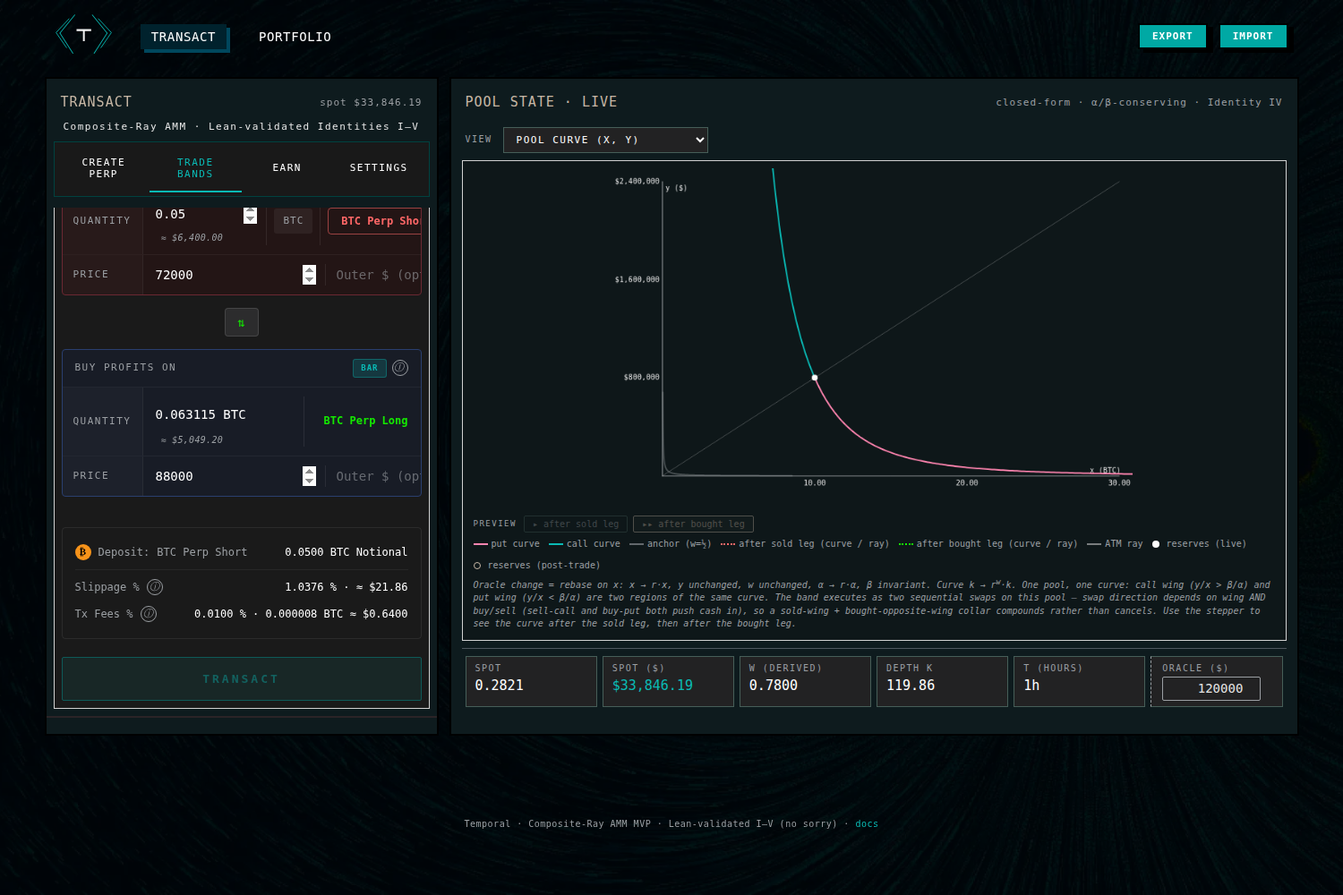
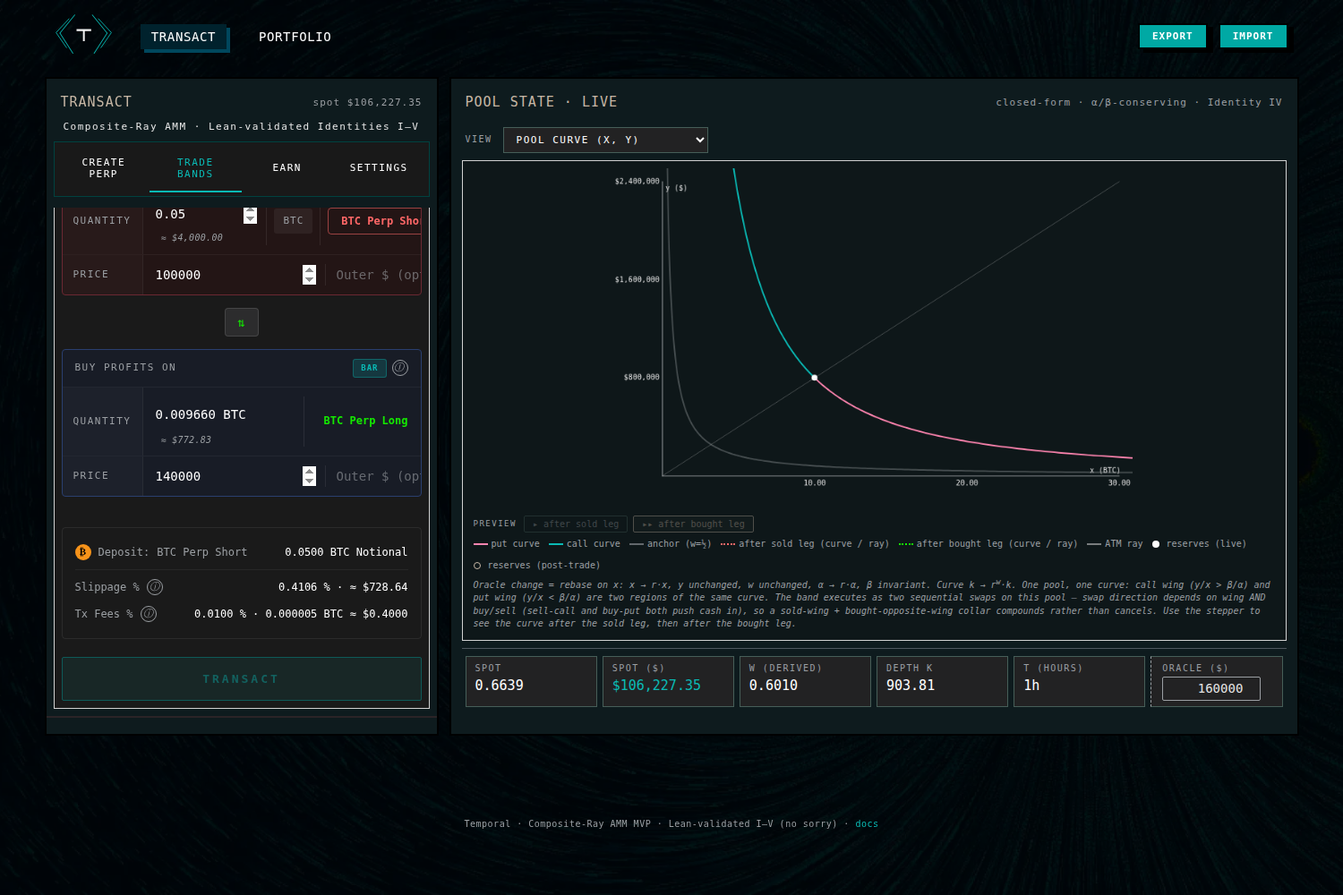
tester smoke-pass v28 lens S2: PASS 12/12, FLAG-1 tau-redraw RESOLVED live, settle-at-lensed round-trip/portfolio/ATM/steep-ITM all PASS, 0 console errors. FINDING-RT OPEN (2-OTM-leg round-trip trader-favourable, scales w/ size, byte-identical to v24 base = inherited, contradicts skeptic #30 sign — 

diff --git a/engine/builds/DIFF_LEDGER.md b/engine/builds/DIFF_LEDGER.md
@@ -22,19 +22,19 @@ changed, every entry, no exceptions)
 |---|---|---|---|---|
 | 1 | Balancer base | **HEAD (v27) IS the (W) family on the literal Balancer base** F=x^w·y^(1−w) with position-dependent w(u;φ); τ→∞ recovers plain Balancer. **UX-restore `9d22cffd`: v24 dollar defaults BACK** — oracle 80000, x=10 BTC, marginal=$80,000.000 at load (y0=303,448.28 chosen so load is equilibrium — differs from v24's 800,000; flagged below). Same tabs/KPI labels/chart views/perp+band defaults as v24 (tester side-by-side). **Display-fix `1eebfcd6`: Spot($)/Spot KPI + hdr-pool-spot re-pointed to the marginal getMP_raw — $80,000.00 / 1.0000 / "spot $80,000.00" at load (v24 values)** | entry-46 smoke (`928cde1c`, FINDING-R) | DESIRABLE — v24 feel restored; Spot-KPI basis RECONCILED-in-`1eebfcd6` (y0 delta OPEN-for-ruling). **NEW OPEN (entry-46 smoke, FINDING-R): post-rebase Spot($)/hdr-pool-spot show POOL-FRAME getMP_raw, not current-$ poolMark — oracle→90000 makes Spot($) read $71,232 then post-arb $80,000 beside an Oracle box reading 90000; honest at r=1 only. Display-only; engine self-consistent** |
 | 2 | Curve warp w(u) | HEAD: explicit (W) weight-field w(u;φ); warp = field-center φ shift; engine-correct (selfcheck 21 PASS); curve renders across frame. On-screen per-trade warp is SUBTLE (≈0.5–1px; verified elbow-local — sweep shows no τ matches v24's global warp with frozen wings) | entry-46 fix `928cde1c` (anchor overlay) | HEAD — engine PASS; visual subtlety ACCEPTED (override). **ENTRY-46: anchor (w=½) overlay FIXED-verified — k=√(x·y)=1,742 (was 170.83, 104× low); passes 1.15px from the live reserves dot, pixel-confirmed on the entry-45 frame (`I3_anchor_curve_default.png` re-shoot).** **ENTRY-30 obs: warp is premium-driven only (φ=f(dy=±premium)); constant-premium-further-OTM does NOT warp more — operator CHECK-1 claim NOT reproduced, see OPEN -1.** **ENTRY-45 obs: τ visual authority intrinsically small on the default frame — re-anchoring pins the elbow at the live point and wing shift is along-tangent (self-sliding); full-range τ 0.05→3.00 max 153.7px at wing tail yet perceived shape ~unchanged (screenshots); per-click (±0.05) 3.4px max = sub-visible. Redraw FIRES (canvas diff every step). See OPEN -2** |
-| 3 | Kurtosis knob τ | HEAD: **τ is a NUMBER STEPPER (no slider anywhere — 0 `input[type=range]` in live DOM), step 0.05, range 0.05–3**; keyboard ↑/↓ steps + readout + curve update live; elbow visibly rounds at $80k defaults (τ 0.05→1.5: elbow 5.6px mean/111 max, left wing 0.0px) — tester-confirmed. **Display-fix `1eebfcd6`: spinner ARROWS UN-HIDDEN (CSS L331-337) — mouse-click on the τ up-arrow steps 0.30→0.35 and the curve redraws; ALL settings/perp number fields show spinners (tester pixel+click ×2)** | entry-46 fix `928cde1c` (disclosure sentence) | DESIRABLE mechanics — stepper+redraw verified live ×2; **ENTRY-46: honest disclosure sentence added + visible at the τ control ("Visible effect scales with the wing gap (w₊−w₋) and is subtle per 0.05 step…"); per-click delta re-baselined byte-identical (3.39px analytic / 3,744px canvas one click; 153.73px full sweep)** — **BUT ENTRY-45: operator reports (correctly) the CURVE looks "almost completely insensitive" to τ — confirmed intrinsic-small visual authority (one click 3.4px max; 0.30→0.60 19.9px; 0.30→3.00 131px, all at wing tails along-tangent, elbow pinned at live point). NOT a redraw bug. Whether the knob needs more VISUAL authority = OPEN operator-tier (OPEN -2)** **▶ v28-S1 CANDIDATE (NOT HEAD, `5e1ff278`): on the polar-lens build τ visibly reshapes CHART 2 (lens read) — forced-redraw τ0.3→0.05 ≈98px elbow sharpen, wings frozen (Δψ≈5e-5); BUT the τ stepper EVENT does NOT auto-redraw chart 2 (0 px on a 0.3→3 step) because `window.Viz` is undefined and the L2702 guard is dead — FLAG-1, OPEN intern one-liner. Same operator "insensitive to kurtosis" symptom-class, here a pure redraw-wiring bug (math/draw correct).** |
+| 3 | Kurtosis knob τ | HEAD: **τ is a NUMBER STEPPER (no slider anywhere — 0 `input[type=range]` in live DOM), step 0.05, range 0.05–3**; keyboard ↑/↓ steps + readout + curve update live; elbow visibly rounds at $80k defaults (τ 0.05→1.5: elbow 5.6px mean/111 max, left wing 0.0px) — tester-confirmed. **Display-fix `1eebfcd6`: spinner ARROWS UN-HIDDEN (CSS L331-337) — mouse-click on the τ up-arrow steps 0.30→0.35 and the curve redraws; ALL settings/perp number fields show spinners (tester pixel+click ×2)** **▶ v28-S2 (`b53ace99`): FLAG-1 RESOLVED — the τ stepper EVENT now AUTO-REDRAWS chart 2 live (0.3→0.05=5,199px, 0.3→2=6,545px, real ArrowUp=3,894px); handler calls `if (Viz) Viz.drawAll(...)` via the ui closure (dead `window.Viz` guard removed) — tester live ×2.** | entry-46 fix `928cde1c` (disclosure sentence) | DESIRABLE mechanics — stepper+redraw verified live ×2; **ENTRY-46: honest disclosure sentence added + visible at the τ control ("Visible effect scales with the wing gap (w₊−w₋) and is subtle per 0.05 step…"); per-click delta re-baselined byte-identical (3.39px analytic / 3,744px canvas one click; 153.73px full sweep)** — **BUT ENTRY-45: operator reports (correctly) the CURVE looks "almost completely insensitive" to τ — confirmed intrinsic-small visual authority (one click 3.4px max; 0.30→0.60 19.9px; 0.30→3.00 131px, all at wing tails along-tangent, elbow pinned at live point). NOT a redraw bug. Whether the knob needs more VISUAL authority = OPEN operator-tier (OPEN -2)** **▶ v28-S1 CANDIDATE (NOT HEAD, `5e1ff278`): on the polar-lens build τ visibly reshapes CHART 2 (lens read) — forced-redraw τ0.3→0.05 ≈98px elbow sharpen, wings frozen (Δψ≈5e-5); BUT the τ stepper EVENT does NOT auto-redraw chart 2 (0 px on a 0.3→3 step) because `window.Viz` is undefined and the L2702 guard is dead — FLAG-1, OPEN intern one-liner. Same operator "insensitive to kurtosis" symptom-class, here a pure redraw-wiring bug (math/draw correct).** |
 | 4 | Carry P=Ny/Nx, q=ln p | HEAD (v27): carry = price leg q=ln p; reads via getMP_raw; engine-consistent (selfcheck) | v27 | DESIRABLE — stable |
 | 5 | Rebase (P→P/r) | HEAD (v27): rebase = carry-shift q→q−ln r (NOT rigid x→r·x); **warp∘rebase-commute OPEN [needs-Aristotle]**, deliberately not coupled. **ENTRY-46 smoke: rebase path UI-exercised first time — engine consistent (arb closes the poolMark gap exactly) but the $ KPIs display the pool FRAME, see FINDING-R row #1** | v27 (+ entry-46 smoke obs) | OPEN lemma — theory-risk-accepted; FINDING-R display item OPEN |
 | 6 | Pricing law value∝S^(−γ) | HEAD (v27): value∝S^(−γ_loc) under Reading A (operator-ruled, entry 11 "a"); wings exact power-laws | v27 (+ v28-S1 candidate obs) | DESIRABLE — Reading A ruled. **▶ v28-S1 (`5e1ff278`): pricing READ through the polar lens g_loc=γ·h′_τ(|u|) on chart 2; value∝S^(−γ_loc) preserved in the wings (selfcheck 5c g_wing→γ-scale); elbow rounds with τ, wings frozen — tester-confirmed live** |
-| 7 | ITM American smooth-pasting | HEAD (v27): ported with g→γ_loc (Reading A); seam value/slope selfcheck PASS; mark/markFrac split present. NOT carried from the GH line: payoff naked-leg uncap + x-range −90..+200 (HEAD payoff caps at 1, ±50%) — NOTES D9/D10 | v27 (+ Task-2 diff) (+ v28-S1 candidate obs) | HEAD — seam PASS; 2 GH-line payoff upgrades unported (noted for future). **▶ v28-S1 (`5e1ff278`): lens twin `markLensed` (Reading-A smooth-paste with strike-local g) — seam value/slope continuous incl. g<1 (selfcheck 4a/4b), and the g=0/S*=0 ATM point returns finite boundary value 1 (no NaN, MUST-APPLY-2) — tester live-probe + selfcheck 4c agree** |
+| 7 | ITM American smooth-pasting | HEAD (v27): ported with g→γ_loc (Reading A); seam value/slope selfcheck PASS; mark/markFrac split present. NOT carried from the GH line: payoff naked-leg uncap + x-range −90..+200 (HEAD payoff caps at 1, ±50%) — NOTES D9/D10 **▶ v28-S2 (`b53ace99`): SETTLE-side lensed — `markEff`/`legValueUnified` price the ITM leg LENSED at the reciprocal sNorm mode; one-ITM-leg path live-verified (steep pool, sold-call driven ITM → settled_cash_leg=sold/live_leg=bought, raw_net finite); near-ATM g_loc≈0 settles finite (markLensed g=0→1, no NaN).** | v27 (+ Task-2 diff) (+ v28-S1 candidate obs) | HEAD — seam PASS; 2 GH-line payoff upgrades unported (noted for future). **▶ v28-S1 (`5e1ff278`): lens twin `markLensed` (Reading-A smooth-paste with strike-local g) — seam value/slope continuous incl. g<1 (selfcheck 4a/4b), and the g=0/S*=0 ATM point returns finite boundary value 1 (no NaN, MUST-APPLY-2) — tester live-probe + selfcheck 4c agree** |
 | 8 | Uniform strike registration θ=sNorm(K) | HEAD (v27): sNormStrike ((W) inverse) defined+exported (round-trip 1.46e-15, NaN-loud) but **export-only — no regLeg wiring**; payoff sweeps price-ratio (1+r); the v26c one-mark-across-display/exec/chart guarantee + all-γ crossover@K are UNVERIFIED on (W) — NOTES D11/D13/D16 | v27 (+ Task-2 diff) | PARTIAL — function present, uniform wiring unported (noted for future) |
 | 9 | Funding | HEAD (v27): re-pointed to price-anchor p=P, γ→±γ_loc [theory-risk-accepted] — diverges from the GH line's locked w=½ funding; φ-anchor/funding lemma OPEN [needs-Aristotle] | v27 (+ v28-S1 candidate obs) | OPEN — theory-risk; not UI-exercised on v27. **▶ v28-S1 (`5e1ff278`): funding routes THROUGH the lens (±g_loc replaces ±2). UI-exercised: with S≠1 (steep pool), ATM funding=0 (g_loc→0), OTM call +2.23e-3 / put −2.23e-3 (opposite-signed, equal magnitude), all finite — tester-confirmed. Operator RULED funding-through-lens accepted (entry-93 "5 idc, same geometric thing")** |
-| 10 | Slippage basis (mpGeom) | HEAD (v27): mpGeom collapses to getMP_raw (price==slope on (W), proven, selfcheck L4). NOT carried: v26a's honest $-tooltip ("Layer-1 reserve-USD, not trader honest-dollar") — HEAD ships the v24 tooltip — NOTES D2 | entry-46 fix `928cde1c` | DESIRABLE math; $-label honesty unported (noted). **ENTRY-46: BOTH entry-45 band-panel display defects RECONCILED-in-`928cde1c`, tester live ×2 — (a) stale-on-reject: `clearBandPreviewOut()` wired on every reject path, STALE-CHECK FALSE on swap/pill/oversize; (b) audit strip prints raw engine USD exactly (28,453.17/11,470.09/39,923.26 on the entry-45 reference band — was $3.19B).** **ENTRY-45 (historical): 2 display defects: (a) STALE-ON-REJECT — previewBand reject paths (!sim.ok / club guards) set the warn but DON'T clear summary/audit ⇒ slippage/N_buy/net-cash retain the PREVIOUS direction's numbers next to the rejection banner (the operator's screenshot state); (b) ×ORACLE UNIT INFLATION — pv-net-cash/pv-dy-sold/pv-dy-bought multiply raw-USD engine dy by oracle again ⇒ "$3,193,860,736" net cash on a $303k pool (engine netPoolY=39,923.26 raw USD, correct; display ×80,000)**  **▶ v28-S1 (`5e1ff278`): executed slippage is plain v24 (lens does NOT touch it; the slippage % readout is sane, e.g. 1.9322% ≈ $73.62). BUT the band AUDIT strip nets (pv-net-cash/pv-dy-*) carry the v24-base ×oracle DOUBLE-MULTIPLY ($618M on an $800k pool) — VERIFIED byte-identical to the v24 base (V_usd already ×oracle L1755, display ×oracle again L3050-52); INHERITED-v24, not a Stage-1 regression; OPEN (candidate v24 known-gap fix).** |
-| 11 | Dollar/settlement pipe | Reused byte-identical from the v24 base; curve-independent | — (unchanged) | DESIRABLE — stable (reuse) |
+| 10 | Slippage basis (mpGeom) | HEAD (v27): mpGeom collapses to getMP_raw (price==slope on (W), proven, selfcheck L4). NOT carried: v26a's honest $-tooltip ("Layer-1 reserve-USD, not trader honest-dollar") — HEAD ships the v24 tooltip — NOTES D2 **▶ v28-S2 (`b53ace99`): executed slippage plain v24. FINDING-RT (OPEN, INHERITED-v24): instant open→close round-trip on a two-OTM-leg band is TRADER-favourable (raw_net>0, scales with slippage; byte-identical in S1+v24) — brief expected pool-favourable; sign-convention escalation. Band-PREVIEW xoracle inflation still carried (entry-96 bug-batch).** | entry-46 fix `928cde1c` | DESIRABLE math; $-label honesty unported (noted). **ENTRY-46: BOTH entry-45 band-panel display defects RECONCILED-in-`928cde1c`, tester live ×2 — (a) stale-on-reject: `clearBandPreviewOut()` wired on every reject path, STALE-CHECK FALSE on swap/pill/oversize; (b) audit strip prints raw engine USD exactly (28,453.17/11,470.09/39,923.26 on the entry-45 reference band — was $3.19B).** **ENTRY-45 (historical): 2 display defects: (a) STALE-ON-REJECT — previewBand reject paths (!sim.ok / club guards) set the warn but DON'T clear summary/audit ⇒ slippage/N_buy/net-cash retain the PREVIOUS direction's numbers next to the rejection banner (the operator's screenshot state); (b) ×ORACLE UNIT INFLATION — pv-net-cash/pv-dy-sold/pv-dy-bought multiply raw-USD engine dy by oracle again ⇒ "$3,193,860,736" net cash on a $303k pool (engine netPoolY=39,923.26 raw USD, correct; display ×80,000)**  **▶ v28-S1 (`5e1ff278`): executed slippage is plain v24 (lens does NOT touch it; the slippage % readout is sane, e.g. 1.9322% ≈ $73.62). BUT the band AUDIT strip nets (pv-net-cash/pv-dy-*) carry the v24-base ×oracle DOUBLE-MULTIPLY ($618M on an $800k pool) — VERIFIED byte-identical to the v24 base (V_usd already ×oracle L1755, display ×oracle again L3050-52); INHERITED-v24, not a Stage-1 regression; OPEN (candidate v24 known-gap fix).** |
+| 11 | Dollar/settlement pipe | Reused byte-identical from the v24 base; curve-independent **▶ v28-S2 (`b53ace99`): the LENSED value is now the unit of account (operator entry 96 RULED) — open-band portfolio value moves with τ (Δ=4.544e-2 across 0.3→2); closed bands freeze settlement $; NO mixed-basis (8 carved-perp-unit cells carry no `$`; exactly 1 $ settlement cell; carved perp slice un-lensed, not summed) — tester live ×2.** | — (unchanged) | DESIRABLE — stable (reuse) |
 | 12 | getMP_raw price-coord gotcha | HEAD (v27): price == geometric slope EXACTLY on (W) (no e^μ factor); code comment warns against re-introducing the GH factor on a cross-port | v27 | DESIRABLE — moot by construction, warning kept |
 | 13 | Solvency boundary (B1) | OPEN ship-gate, unchanged by the promotion (not claimed closed) | — | OPEN — the known hole |
 | 14 | Esscher tilt / rapidity group | HEAD (v27): trade = weight-slot field-center translation φ; premise skeptic-verified FAITHFUL to paper+v24 (entry-27 cross-check); no X·Y invariant claimed | v27 | DESIRABLE — grounded |
-| 15 | File-safety gate | Display-fix build `1eebfcd6`: blobs canonical `ab663f5c…` (L74) / `c505b08a…` (svg line shifted 1060→1064 by new CSS, content canonical; line-md5 tester re-verified), 3 scripts parse; 0 console errors live ×2 | entry-46 build `928cde1c` (HEAD); v28-S1 `5e1ff278` (candidate line) | DESIRABLE — stable. HEAD re-verified entry-46 smoke (md5 `928cde1c`, blobs L74/L1064, 3 scripts, run_all 22/22, 0 uncaught ×2). **▶ v28-S1 candidate (`5e1ff278`): file-safety GREEN — blobs canonical `ab663f5c…` L74 / `c505b08a…` L1060, 3 scripts parse, lens_selfcheck 14/0, 0 console errors live ×2** |
+| 15 | File-safety gate | Display-fix build `1eebfcd6`: blobs canonical `ab663f5c…` (L74) / `c505b08a…` (svg line shifted 1060→1064 by new CSS, content canonical; line-md5 tester re-verified), 3 scripts parse; 0 console errors live ×2 **▶ v28-S2 candidate (`b53ace99`): file-safety GREEN — blobs `ab663f5c…` L74 / `c505b08a…` L1060, 3 scripts parse, lens_selfcheck 23/0, 0 console errors live ×2, build md5 unchanged post-run.** | entry-46 build `928cde1c` (HEAD); v28-S1 `5e1ff278` (candidate line) | DESIRABLE — stable. HEAD re-verified entry-46 smoke (md5 `928cde1c`, blobs L74/L1064, 3 scripts, run_all 22/22, 0 uncaught ×2). **▶ v28-S1 candidate (`5e1ff278`): file-safety GREEN — blobs canonical `ab663f5c…` L74 / `c505b08a…` L1060, 3 scripts parse, lens_selfcheck 14/0, 0 console errors live ×2** |
 | 16 | **Warp-with-trades (strong-form)** | HEAD (v27): IMPLEMENTED (α=x·w, β=y·(1−w) conserved; φ recenter; selfcheck WARP a–f PASS; skeptic-verified the unique conservation-consistent trade). On-screen warp subtle (elbow-local by design; cannot match v24's global warp with frozen wings — verified sweep). **Operator promoted over my visual blocker (entry 28) — recorded OVERRIDDEN, not resolved**; anchor-overlay/amplified-warp viz still open | v27 promotion (entry 28) (+ entry-30 TEST-ONLY note) | HEAD — engine PASS; ACCEPTED(operator). **ENTRY-30: composite-ray spread→single-tx at θ*=√(θ₁θ₂) CONFIRMED exactly (residual 0); but premium-controlled warp NOT reproduced (strike not in tradeUpdate) — OPEN -1.** **ENTRY-45 quantification: the band path (the ONLY UI trade) nets sold-premium−bought-premium ⇒ tiny dy ⇒ tiny φ: 1 BTC band nets ≈$1,626 → Δφ 7.4e-3; cumulative 3 BTC/$240k notional → 2.14px max curve shift. Warp invisibility is STRUCTURAL on the band path, compounding the elbow-local subtlety** **ENTRY-46 smoke: unchanged (engine byte-identical) — 0.05-BTC execute Δφ=4.44e-4; preview steppers + w-readout (the sub-pixel-legibility surrogate) verified working** |
 
 ## Entry template
@@ -67,8 +67,22 @@ audits this list against the raw transcripts to catch unresolved-presented-as-re
 
 ### OPEN (operator asked / objected; no recorded resolution)
 
--3. **★ v28-S1 (tester finding, operator ASLEEP) — the KURTOSIS τ knob does NOT auto-redraw chart 2
-   on the polar-lens build.** [#3] NOT an operator question yet (the build post-dates the last
+-4. **★ v28-S2 (tester finding, operator has not seen) — instant open->close round-trip on a TWO-OTM-LEG band
+   is TRADER-FAVOURABLE (positive raw_net) and SCALES with slippage; the brief's "pool-favourable residual"
+   is contradicted on the SIGN.** [#10, #11] On `temporal_mvp_v28_lens_S2.html` (`b53ace99`) a band whose
+   open net-cash is ~0, closed immediately, returns raw_net = Y - X > 0 (trader wins, per the engine's own
+   L2146 close logic) and growing super-linearly with size: N=0.01 -> +1.57e-4, N=0.05 -> +3.71e-3,
+   N=0.2 -> +4.30e-2 (tracking slip 0.24%/1.17%/4.25%). Root = the v24 closeBand geometry (both same-sign legs
+   reverse in the trader's favour). **VERIFIED byte-identical raw_net in S1 AND the v24 base** -> INHERITED-v24,
+   NOT introduced by the lens. NOT an operator question yet; entry 96 ruled "settle at lensed prices" but did
+   NOT rule on whether an instant round-trip should be trader- or pool-favourable. **Status: OPEN — manager to
+   escalate the sign convention to the operator. Cannot be marked resolved without an engine change or an
+   operator ruling that the current trader-favourable round-trip is acceptable.** Evidence
+   `evidence/v28_lens_S2/probes/` (sign_vs_slippage / compare_S2_S1_v24 / roundtrip_dissect), harness
+   `engine/verify/pw_v28_lens_S2_smoke.mjs` (Step 3).
+
+-3. **★ v28-S1 (tester finding) — the KURTOSIS τ knob did NOT auto-redraw chart 2 on the Stage-1 lens
+   build → RESOLVED in v28 Stage 2 (`b53ace99`).** [#3] NOT an operator question yet (the build post-dates the last
    operator turn) — recorded here because it is the SAME CLASS as the operator's standing entry-45
    objection (*"did you check that the curve is almost completely insensitive to kurtosis change?"*,
    `history/operator/2026-06-10_kurtosis-curve-family-brief.md:341` [verbatim-transcript]) and would
@@ -76,10 +90,12 @@ audits this list against the raw transcripts to catch unresolved-presented-as-re
    τ 0.3→3 step via the real stepper yields 0 px change on chart 2; root cause is the L2702 handler
    guarding its redraw on `window.Viz` which is undefined (Viz is a const IIFE at L3175 never put on
    window). The lens math + draw are correct — a forced redraw (Advance Time / Arbitrage / trade /
-   Reset) shows the full ≈98px elbow reshape. **Status: OPEN — intern one-liner (`window.Viz = Viz;`
-   or call `render()`); BLOCKS the Stage-1 hand-back gate. Cannot be marked resolved without the fix
-   verified live or an operator waiver.** Evidence `evidence/v28_lens_S1/`, harness
-   `engine/verify/pw_v28_lens_S1_smoke.mjs`.
+   Reset) shows the full ≈98px elbow reshape. **Status: RESOLVED-in-`b53ace99` (v28 Stage 2) — tester live ×2: the tau stepper EVENT now
+   auto-redraws chart 2 (0.3->0.05 = 5,199 px, 0.3->2 = 6,545 px, real ArrowUp click = 3,894 px; the
+   L2724 handler now calls `if (Viz) Viz.drawAll(...)` reaching Viz via the ui-script closure, the dead
+   `window.Viz` guard removed). The deferred FLAG-1 confirmation is COMPLETE — the Stage-1 blocker is gone.**
+   Evidence `evidence/v28_lens_S2/` (S1_00/01/02), harness `engine/verify/pw_v28_lens_S2_smoke.mjs`;
+   original finding evidence `evidence/v28_lens_S1/`, harness `engine/verify/pw_v28_lens_S1_smoke.mjs`.
 
 -2. **★ ENTRY 45 — operator live-play, four lacunae (τ insensitivity / long↔short "breaks" /
    anchor in corner / no visible warp).** [#2, #3, #10, #16] Operator `[verbatim-transcript]`
@@ -1199,11 +1215,122 @@ list:** +2 new rows (FLAG-1 tau no-auto-redraw OPEN; inherited-v24 xoracle audit
 
 ---
 
+## ▶ v28 polar-lens Stage 1 (`5e1ff278`) → Stage 2 `temporal_mvp_v28_lens_S2.html` (`b53ace99`)   [status: CANDIDATE, NOT HEAD — HEAD stays v27 `928cde1c`; same v24-base lens line; ADDS write/settle-through-lens (operator entry 96) + the FLAG-1 fix; tester STANDING UI SMOKE-PASS live ×2 byte-stable]
+_Tester live-Playwright Chromium, READ-ONLY on the build, reproduced clean ×2 (IDENTICAL verdicts,
+0 console errors / 0 pageerrors both runs). Build = Stage-1 lens + Stage-2 settle-THROUGH-lens: trades,
+portfolio value AND settlement now record the LENSED value (operator entry 96). Manager pre-verify: pool
+byte-identical to v24 (tradeUpdate delta 0), `lens_selfcheck.js` 23 PASS / 0 FAIL, blobs canonical.
+Harness `engine/verify/pw_v28_lens_S2_smoke.mjs`; evidence `evidence/v28_lens_S2/` (15 shots + RUN_LOG_runA/B
++ INDEX + probes/). File-safety GREEN: blobs `ab663f5c...` (webp L74) / `c505b08a...` (svg L1060), 3 scripts parse.
+md5 `b53ace9996930249cad85fc1e37e6c61` UNCHANGED post-run (READ-ONLY)._
+
+**FEATURES:** #3 (kurtosis knob tau — FLAG-1 FIX: stepper now AUTO-REDRAWS chart 2 live), #6 (pricing
+value~S^(-gamma_loc) — settlement now reads it through the lens), #7 (ITM American smooth-paste — `markEff`/
+`legValueUnified` settle-side LENSED at the reciprocal sNorm mode; one-ITM-leg path exercised), #9 (funding —
+unchanged from S1, through-lens), #10 (slippage — executed slippage plain v24; round-trip residual reported,
+see FINDING-RT), #11 (dollar/settlement pipe — NOW the lensed value is the unit of account; carved-perp-unit
+band columns vs a single $ settlement cell), #14 (Esscher/trade — unchanged), #15 (file-safety GREEN), #16
+(warp-with-trades — plain v24 tradeUpdate, byte-identical; settlement reverses legs on the same v24 AMM).
+**None beyond.** (#1 Balancer base, #2 curve-warp w(u), #4 carry, #5 rebase, #8 registration, #12 getMP_raw,
+#13 solvency: all plain v24 / unchanged from S1, untouched by Stage 2.)
+
+**DESIRABLE (tester-confirmed live ×2):**
+- **#3 FLAG-1 RESOLVED — the tau stepper AUTO-REDRAWS chart 2 LIVE.** The deferred FLAG-1 confirmation: a
+  real stepper EVENT now reshapes chart 2 with NO forcing action. Event-only px-diff: tau 0.3->0.05 = **5,199 px**,
+  tau 0.3->2 = **6,545 px**, a genuine keyboard **ArrowUp** spinner click 0.3->0.35 = **3,894 px**. (`window.Viz`
+  is still `undefined`, but the L2724 handler now calls `if (Viz) Viz.drawAll(...)` reaching Viz via the ui-script
+  closure — the dead `window.Viz` guard is gone.) The Stage-1 blocker is GONE. [#3]
+- **#3/#6 chart 1 (pool curve) INERT to tau — HARD.** px-diff across the full sweep {0.05,1,2,3} = **0 at every
+  tau** (the key read/write separation). Tester-confirmed (`S2_01` vs `S2_02` pixel-identical). [#3,#6]
+- **#7/#11 settle-THROUGH-lens works — one-ITM-leg reciprocal-coordinate path PROVEN live.** Steep pool w=0.6,
+  sold-call (K=$140k) OTM-at-open, oracle pushed 80k->160k to drive the sold call ITM, then close: settlement
+  splits `settled_cash_leg=sold` (ITM leg priced at the pre-AMM state, NOT pushed through the AMM) + `live_leg=bought`
+  (OTM leg reversed on the AMM); raw_net=-4.797e-3 (pool-favourable here), X/Y/raw_net all finite. The ITM mark
+  reads in the RECIPROCAL sNorm coordinate (getSNorm), per MUST-APPLY-A. [#7,#11]
+- **#11 portfolio value IS the lensed unit of account.** An OPEN band's value moves with tau: analytic band
+  value Delta = **4.544e-2** across tau 0.3->2 (X/Y both recomputed through `markLensed` at the live mode). The
+  lens is now what's recorded/queried. (Closed bands correctly FREEZE their settlement $ — `$35.16`/`$12.14`
+  identical at tau0.3 and tau2 — settlement is fixed at close-time, not re-lensed retroactively.) [#11]
+- **#11 NO mixed-basis on a single column.** Portfolio band rows: **8 carved-perp-unit value/funding cells, NONE
+  carry a `$`**; exactly **1 dedicated $ cell** = the settlement total (title "settlement value = L0 . raw_net .
+  carved equity at closure"). The carved perp slice (un-lensed) is NOT summed onto the lensed option-$ basis in
+  one cell — the de-conflation holds. Tester-confirmed (`S7_01`). [#11]
+- **#7 near-ATM (g_loc~0) settles FINITE.** A band tight around spot opens and settles: raw_net=7.166e-4, X/Y
+  finite; markLensed at the exact g=0 ATM point = 1 (no NaN/Inf); portfolio text NaN/Infinity-free. [#7]
+- **#15 file-safety + clean console.** 0 uncaught / 0 console errors across all 8 steps + standing smoke, ×2 runs.
+  Blobs canonical, 3 scripts parse, lens_selfcheck 23/0. Build md5 unchanged post-run.
+- **#16/#11 standing coverage** — both band directions OPEN (pill long + short), swap control flips inputs+dir,
+  arb, tick, LP deposit/withdraw round-trip ($1.6M->$1.6M), all 4 overlays (curve/pricing/payoff/trajectory) lit +
+  located, reset to clean. [#16]
+
+**UNDESIRABLE:**
+- **FINDING-RT (INHERITED-v24, NOT a Stage-2 regression) — an instant net-cash-zero open->close round-trip on a
+  TWO-OTM-LEG band yields a POSITIVE (TRADER-FAVOURABLE) raw_net that SCALES with slippage.** raw_net = Y - X
+  (bought-leg minus sold-leg, carved-perp units). On an immediate reversal of a band whose open net-cash was ~0,
+  raw_net is POSITIVE and grows super-linearly with size: N=0.01 -> +1.57e-4 (slip 0.239%), N=0.05 -> +3.71e-3
+  (slip 1.17%), N=0.2 -> +4.30e-2 (slip 4.25%); the engine's own close logic (L2146 `if (raw_net > 0 && club.equity
+  <= 0)`) treats raw_net>0 as the **trader-winning** case, so this is a trader-favourable residual, the OPPOSITE of
+  the brief's "tiny residual = pool-favourable, NOT a leak" expectation. **ROOT: the v24 closeBand settlement
+  geometry** — both same-sign legs (sold call + bought put) push the pool the same way on open, so reversing BOTH
+  on close moves each option price in the trader's favour (sold-leg cheaper to buy back, bought-leg richer to sell).
+  **VERIFIED byte-identical raw_net in S1 AND the v24 base** across N=0.01/0.05/0.2 (`probes/compare_S2_S1_v24.txt`)
+  — it is the inherited v24 round-trip behaviour, NOT introduced by the lens (Stage 2 only rescales the marks; the
+  one-ITM-leg case S6 is correctly pool-favourable, raw_net<0). **Status: OPEN — escalate the sign convention to the
+  operator (entry 96 ruled "settle at lensed prices" but did NOT address the round-trip residual direction). Does
+  NOT block the Stage-2 hand-back gate by itself (Stage-2 settles correctly RELATIVE to its v24 base), but the
+  brief's stated residual direction is contradicted and must be surfaced.** [#10/#11]
+- **INHERITED-from-v24 band-audit xoracle inflation (carried from S1, unchanged).** The band PREVIEW net-cash row
+  (`pv-net-cash`) still x-oracle-double-multiplies on the Transact preview (e.g. tens-of-millions on the open
+  preview) — verified byte-identical to the v24 base / S1; NOT a Stage-2 regression. The PORTFOLIO settlement cell
+  ($35.16/$12.14) is sane. **OPEN — inherited-v24; in the operator entry-96 bug-batch ("yes fix bug").** [#10/#11]
+
+**NEUTRAL:**
+- Settlement comments/code now carry the Stage-2 markEff/legValueUnified lensed split + reciprocal-coordinate
+  notes; portfolio band-value columns labelled "carved-perp units" with a single $ settlement cell.
+
+**OPERATOR-VOICE** (`history/operator/2026-06-10_kurtosis-curve-family-brief.md`, per section 2.2 verbatim):
+- **RULED — the Stage-2 settle-through-lens IS the operator's explicit ruling [verbatim-transcript], Entry 96 (L710):**
+  *"everything works the same, the lens just translates queries incl portfolio value etc. and writes (amm tx) — so
+  yes settle at lenses prices — this doesn't mean the strike changes or whatever, but you'd be recording the lensed
+  version to query if that answers your question deeply enough"* — Stage 2 implements exactly this: trades/portfolio/
+  settlement record the lensed value, strike unchanged (tester-confirmed: open-band value moves with tau, one-ITM-leg
+  settles in the reciprocal coordinate, the carved slice stays un-lensed). The Stage-1 OPEN-GAP (write/settle NOT
+  through the lens) is now CLOSED by this build. **RULED-and-implemented.** [#7,#10,#11]
+- **RULED — the xoracle + subsequent-version bug-batch [verbatim-transcript], Entry 96 (L712-714):** *"yes fix bug"*
+  ... *"and other bugs we fixed in subsequent versions including something about anchor curve, the atm jump etc etc..."*
+  => the xoracle audit inflation + anchor-curve + ATM-jump are operator-directed fixes still PENDING on this lens
+  line (the brief's "bug-batch + visible-warp stage before promotion"). Recorded OPEN, operator-ruled-to-fix. [#10]
+- **OPEN (no recorded ruling) — the round-trip residual SIGN.** Entry 96 ruled the lensed value is what's settled,
+  but the operator has NOT ruled on whether an instant round-trip should be trader- or pool-favourable. FINDING-RT
+  is a tester finding the operator has not seen; it inherits from v24 and must be escalated, not assumed acceptable.
+- **No operator OBJECTION recorded against v28-S2 specifically** (build post-dates the last operator turn; entry 96
+  is the build-enabling ruling). Entries 97-99 (payoff #8/#9 dispositions, comms-protocol enforcement) are adjacent,
+  not Stage-2-specific.
+
+**EVIDENCE:** `evidence/v28_lens_S2/` — S1_00/01/02 (tau auto-redraw chart 2), S2_01/02 (chart-1 tau-inert),
+S3_01/02 (round-trip open/close), S4_01/02 (portfolio tau0.3/tau2), S5_01 (near-ATM finite), S6_01/02 (steep ITM
+settle + swap), S7_01 (basis columns), S8_01/02 (overlays + reset), RUN_LOG_runA/B.txt (byte-stable verdicts),
+probes/ (roundtrip_dissect / sign_vs_slippage / compare_S2_S1_v24). Harness `engine/verify/pw_v28_lens_S2_smoke.mjs`.
+Node `lens_selfcheck.js` 23/0. **VERDICT: ALL 12 step/gate verdicts PASS ×2 byte-stable — Stage-2 mechanics
+(write/settle-through-lens, one-ITM-leg reciprocal settlement, portfolio-as-lensed-unit, no-mixed-basis, near-ATM
+finite) + the FLAG-1 tau auto-redraw fix all PASS. ONE finding to surface: FINDING-RT (trader-favourable round-trip
+residual, INHERITED-v24, sign-convention question for the operator) + the carried inherited-v24 xoracle preview
+inflation. NOT a HEAD-promotion (HEAD stays v27). Stage-2 hand-back gate = PASS; remaining pre-promotion work =
+the operator entry-96 bug-batch (xoracle/anchor/ATM-jump) + the visible-warp stage.**
+
+**Table rows updated:** #3 (FLAG-1 RESOLVED — tau auto-redraw live), #7 (settle-side lensed markEff, one-ITM-leg
+reciprocal path), #10 (round-trip residual FINDING-RT + carried xoracle), #11 (settle/portfolio = lensed unit of
+account, no mixed-basis), #15 (new build file-safety green). **Rolling list:** OPEN item -3 (FLAG-1) -> RESOLVED-in-`b53ace99`;
++1 new OPEN item (FINDING-RT sign). **Reconciliation list:** FLAG-1 row -> RECONCILED-in-`b53ace99`; +1 FINDING-RT row.
+
+---
+
 
 ## Standing reconciliation list (all OPEN undesirables, one place)
 | Item | Introduced | Status |
 |---|---|---|
-| **v28-S1 FLAG-1: KURTOSIS tau stepper does NOT auto-redraw chart 2 (event yields 0 px; `window.Viz` undefined so the L2702 redraw guard is dead) - reproduces the operator's "curve insensitive to kurtosis" complaint at the lens** | v28-S1 (`5e1ff278`) | OPEN - intern one-liner (`window.Viz = Viz;` or call `render()`); lens math/draw correct (forced redraw = full 98px reshape); BLOCKS the Stage-1 hand-back |
+| v28-S1 FLAG-1: KURTOSIS tau stepper did NOT auto-redraw chart 2 | v28-S1 (`5e1ff278`) | **RECONCILED-in-`b53ace99` (v28 Stage 2)** — tester live ×2: stepper EVENT now reshapes chart 2 (0.3->0.05=5,199px, 0.3->2=6,545px, ArrowUp=3,894px); L2724 calls `if (Viz) Viz.drawAll(...)` via closure |
+| **v28-S2 FINDING-RT: instant open->close round-trip is TRADER-favourable (raw_net>0, scales with slippage) — brief expected pool-favourable** | v24 base, present in v28-S2 | OPEN — INHERITED-v24 (byte-identical raw_net in S1+v24); sign-convention question, escalate to operator; does NOT block the Stage-2 hand-back |
 | v28-S1 band audit xoracle inflation (pv-net-cash/pv-dy-* multiply already-USD dy by oracle again; $618M on $800k pool) - INHERITED byte-identical from v24 base (L1755 V_usd already xoracle, L3050-52 xoracle again) | v24 base, present in v28-S1 | OPEN - inherited-v24; candidate "known-gap" correction per operator entry-93 |
 | Payoff ray-legend overprint (cosmetic) | v26c | OPEN — intern polish, non-blocking |
 | Collar-aggressiveness slippage magnitude | v26a (exposed) | ACCEPTED — operator parked |

diff --git a/.claude/agent-memory/tester/MEMORY.md b/.claude/agent-memory/tester/MEMORY.md
@@ -1,7 +1,51 @@
 # MEMORY — tester
-_Last updated: 2026-06-11, after the v28 POLAR-LENS STAGE-1 STANDING UI SMOKE-PASS (candidate build `5e1ff278`, READ-ONLY; operator ASLEEP, autonomous build entry 95). HEAD unchanged = v27 `928cde1c`._
+_Last updated: 2026-06-12, after the v28 POLAR-LENS STAGE-2 STANDING UI SMOKE-PASS (candidate build `b53ace99`, READ-ONLY; write/settle-through-lens + FLAG-1 fix). HEAD unchanged = v27 `928cde1c`._
 
-## ★★★★★ MOST RECENT — v28 POLAR-LENS STAGE-1 SMOKE (CANDIDATE `5e1ff278`, NOT HEAD; new line off PLAIN v24)
+
+## ★★★★★ MOST RECENT — v28 POLAR-LENS STAGE-2 SMOKE (CANDIDATE `b53ace99`, NOT HEAD; v24-base lens line, write/settle THROUGH the lens)
+Build = `engine/builds/temporal_mvp_v28_lens_S2.html` (md5 `b53ace9996930249cad85fc1e37e6c61`, UNCHANGED
+post-run, READ-ONLY). Stage 2 = operator entry 96 (L710 [verbatim]): "settle at lenses prices … recording the
+lensed version" — trades/portfolio/settlement now record the LENSED value. Manager pre-verify: pool byte-identical
+to v24 (tradeUpdate Δ0), `lens_selfcheck.js` 23/0, blobs canonical. Harness `engine/verify/pw_v28_lens_S2_smoke.mjs`;
+evidence `evidence/v28_lens_S2/` (15 shots + RUN_LOG_runA/B + INDEX + probes/). Live Playwright ×2 byte-stable,
+**0 console errors / 0 pageerrors**. File-safety GREEN (webp L74 `ab663f5c…`, svg L1060 `c505b08a…`, 3 scripts parse).
+Ledger entry appended (feature-keyed #3/#6/#7/#9/#10/#11/#14/#15/#16 + none-beyond; OPERATOR-VOICE entry 96 RULED;
+table rows #3/#7/#10/#11/#15 amended; OPEN -3 FLAG-1→RESOLVED, +OPEN -4 FINDING-RT; reconciliation FLAG-1→RECONCILED
++1 FINDING-RT row). **VERDICT: ALL 12 step/gate verdicts PASS ×2 byte-stable ⇒ Stage-2 hand-back GATE = PASS.**
+- **★ FLAG-1 RESOLVED (the Stage-1 blocker, deferred confirmation DONE):** the τ stepper EVENT now auto-redraws
+  chart 2 LIVE — event-only px: 0.3→0.05 = **5,199**, 0.3→2 = **6,545**, real keyboard **ArrowUp** 0.3→0.35 = **3,894**.
+  `window.Viz` is STILL undefined, but L2724 now calls `if (Viz) Viz.drawAll(...)` reaching Viz via the ui-script
+  closure (dead window.Viz guard gone). Blocker is gone.
+- **★ FINDING-RT (NEW, OPEN, INHERITED-v24 — the one thing to surface):** an instant net-cash-zero open→close
+  round-trip on a TWO-OTM-LEG band yields POSITIVE raw_net = Y−X (TRADER-favourable per engine L2146) that SCALES
+  with slippage: N=0.01→+1.57e-4, N=0.05→+3.71e-3, N=0.2→+4.30e-2 (slip 0.24/1.17/4.25%). **CONTRADICTS the brief's
+  "tiny residual = pool-favourable, NOT a leak" on the SIGN.** Root = v24 closeBand geometry (both same-sign legs
+  reverse in the trader's favour). **VERIFIED byte-identical raw_net in S1 AND v24 base** (`probes/compare_S2_S1_v24.txt`)
+  ⇒ INHERITED-v24, NOT a Stage-2 regression. The one-ITM-leg steep case (S6) is correctly pool-favourable (raw_net<0).
+  Does NOT block the gate by itself (Stage-2 settles correctly vs its base) — **escalate the SIGN convention to the operator**
+  (entry 96 ruled "settle at lensed prices" but did NOT rule on round-trip direction).
+- **Step verdicts (all PASS ×2):** (1) τ auto-redraw chart 2 live — PASS (FLAG-1 RESOLVED). (2) chart 1 INERT to τ:
+  px-diff across {0.05,1,2,3} = **0 every τ** — PASS HARD (the read/write separation). (3) round-trip: finite small
+  residual raw_net=3.86e-3, no settled-cash leg — PASS [sign = FINDING-RT]. (4) portfolio open-band value moves with τ
+  (Δ=4.544e-2 across 0.3→2); closed bands freeze settlement $ ($35.16/$12.14 same at τ0.3/τ2) — PASS. (5) near-ATM
+  g_loc≈0 settles finite (raw_net=7.17e-4, markLensed g=0→1, no NaN) — PASS. (6) steep pool w=0.6, sold-call driven ITM
+  (oracle 80k→160k): settled_cash_leg=sold/live_leg=bought, raw_net=−4.80e-3 (pool-favourable), finite — reciprocal-coord
+  one-ITM-leg path PROVEN — PASS; dir swap flips inputs+dir — PASS. (7) no mixed-basis: 8 carved-perp-unit cells carry no
+  `$`; exactly 1 $ settlement cell; carved perp slice un-lensed not summed — PASS. (8) standing: both band dirs open,
+  swap control, arb, tick, LP round-trip ($1.6M→$1.6M), all 4 overlays lit, reset — PASS.
+- **Gotchas this run (CRITICAL for re-runs):**
+  - **#perp-notional is in BTC** (default 0.1), #perp-margin in USD — feeding USD-scale numbers (e.g. 100000) inflates
+    the club ~1e4× (100000 BTC × 80000 = $8e9), blowing up L0 to ~7e5. Use small BTC notionals (1–2 BTC).
+  - **Page vs subtab:** Transact and Portfolio are SEPARATE top-level pages (`.page-nav-link[data-page="transact"|"portfolio"]`).
+    tau-input / btn-tick / btn-arb / chart-select live on Transact > **Settings subtab**; perp/band forms on other subtabs of
+    the SAME Transact page. setTau/setPool must re-activate Transact+Settings first or the input is "not visible".
+  - **band warn banner is `#warn-area`** (NOT #band-warn). OTM-only open guard: sold-call needs strike θ > pool-spot-θ;
+    a STEEP pool raises spot-θ (w=0.6→θ=1.5, w=0.78→θ=3.55) so OTM sold-call strikes must be well ABOVE oracle (K>120k at w=0.6).
+  - **band direction = `#band-dir-sell` dataset.dir (long/short)**; swap flips dir AND swaps inner/outer inputs. To open a
+    specific direction deterministically, click #band-dir-sell to the wanted dir first, then fill strikes.
+  - closeBand return is reachable via `Store.closeBand(id)` in evaluate (returns {raw_net,X,Y,settled_cash_leg,live_leg,…}).
+
+## ★★★★ Prior — v28 POLAR-LENS STAGE-1 SMOKE (CANDIDATE `5e1ff278`, NOT HEAD; new line off PLAIN v24)
 Build = `engine/builds/temporal_mvp_v28_lens_S1.html` (md5 `5e1ff278dbfea889d49b48224ba931d3`). Static
 polar lens (knob τ) reshapes CHART 2 (option/value) + funding; CHART 1 (pool curve) + all trade
 mechanics are plain v24 byte-identical (manager pre-verify tradeUpdate Δ0; lens_selfcheck 14/0).
@@ -225,7 +269,7 @@ Blob line md5s `ab663f5c…` (webp L74) / `c505b08a…` (svg); 3 `<script>` pars
 build: L1064 on the v27 line (`928cde1c` etc.), L1060 on the v28-S1 candidate (`5e1ff278`) — content
 canonical either way; key off the line md5, not the number.**
 HEAD `928cde1cccb0f35fdc9a23a7634414c8` (entry-46 fix build); prior `1eebfcd6`, `9d22cffd`, `b245bfda`, `3914c7f4`;
-v26c_full2 `6cc73563…`; v26b `8df9f8a3…`. **v28-S1 candidate `5e1ff278dbfea889d49b48224ba931d3` (NOT HEAD).**
+v26c_full2 `6cc73563…`; v26b `8df9f8a3…`. **v28-S1 candidate `5e1ff278…` (NOT HEAD); v28-S2 candidate `b53ace9996930249cad85fc1e37e6c61` (NOT HEAD, write/settle-through-lens, svg L1060).**
 
 ## Environment quick-ref
 `cd engine; PLAYWRIGHT_BROWSERS_PATH=/opt/pw-browsers node verify/<harness>.mjs` — playwright

diff --git a/history/operator/2026-06-10_kurtosis-curve-family-brief.md b/history/operator/2026-06-10_kurtosis-curve-family-brief.md
@@ -736,3 +736,11 @@ _Context: operator dispositions the two payoff-chart features — #8 manager's c
 _Context: operator flags the manager's "scope expansion" jargon as a breach of the simple-English protocol (R7/entry-71) and directs the skeptic to queue + enforce it._
 
 > whats the scope expansion thing? didn't we establish a simple english communication protocol? relay to skeptic for his queue that this has to be implemented
+
+
+---
+
+## Entry 100 — 2026-06-12
+_Context: operator asks to re-verify the far-OTM "dust trade" reshape (the old frozen-wing blow-up) on the new v24+lens build — not a dealbreaker, due-diligence._
+
+> also check the dust trade on wingsbblowup thing again — not a dealbreaker, but good to know
